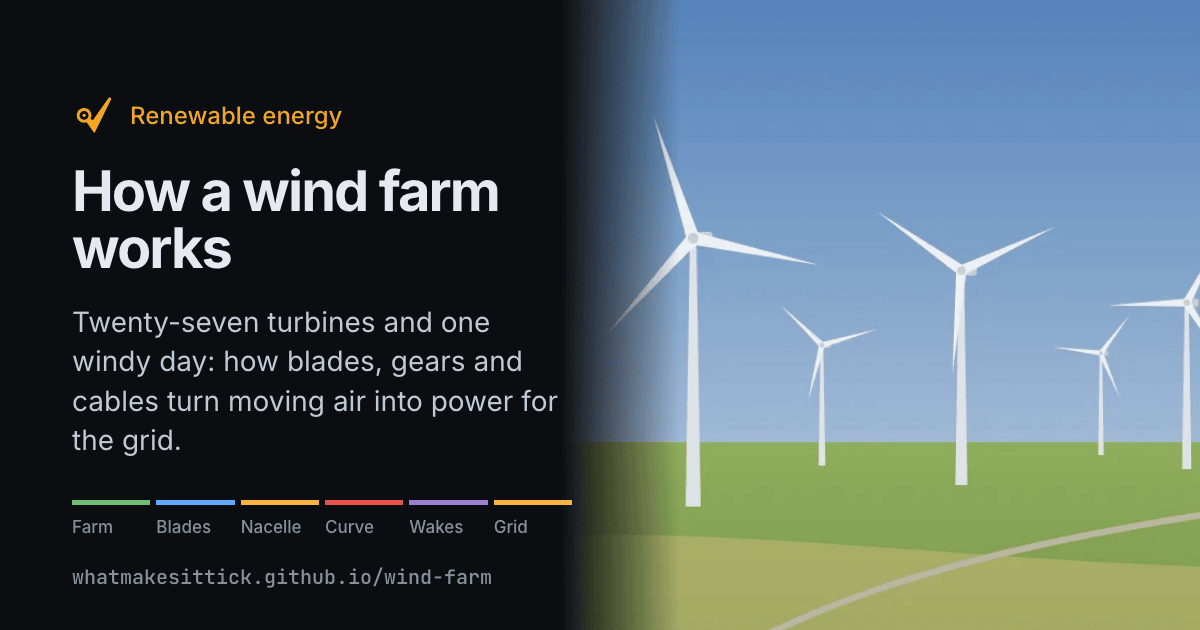
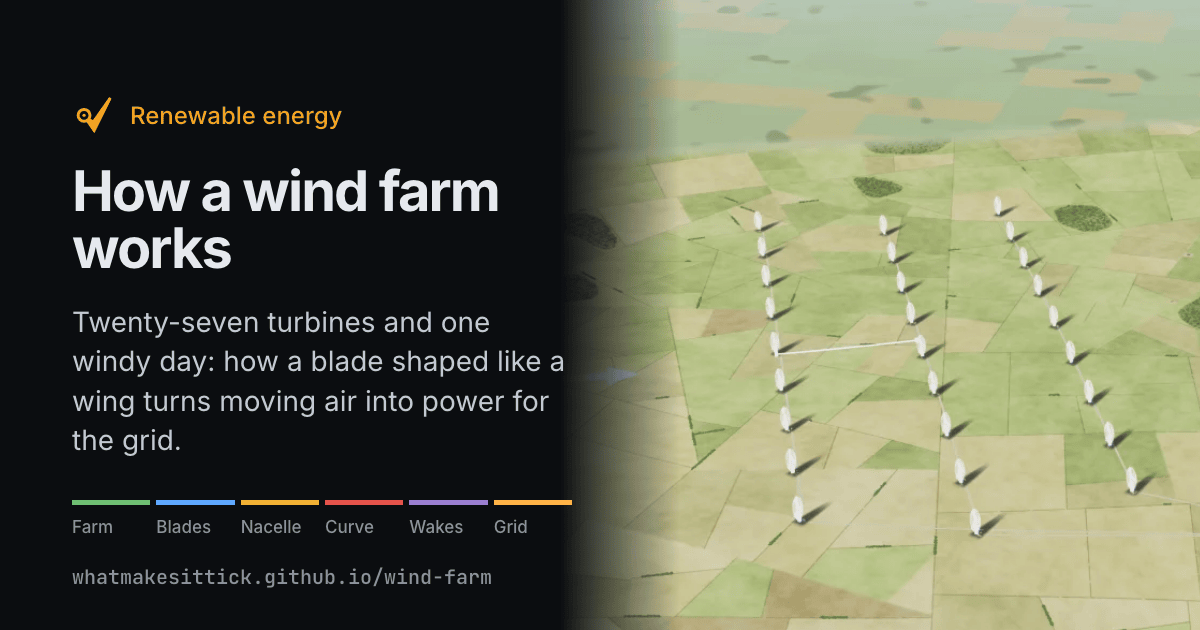
feat(wind-farm): add the cover and social images

diff --git a/scripts/cards/wind-farm.html b/scripts/cards/wind-farm.html
@@ -140,8 +140,8 @@
       </p>
       <h1>How a wind farm works</h1>
       <p class="subtitle">
-        Twenty-seven turbines and one windy day: how blades, gears and cables turn moving air into
-        power for the grid.
+        Twenty-seven turbines and one windy day: how a blade shaped like a wing turns moving air
+        into power for the grid.
       </p>
       <ol class="topics">
         <li style="--tone: var(--farm)">Farm</li>
